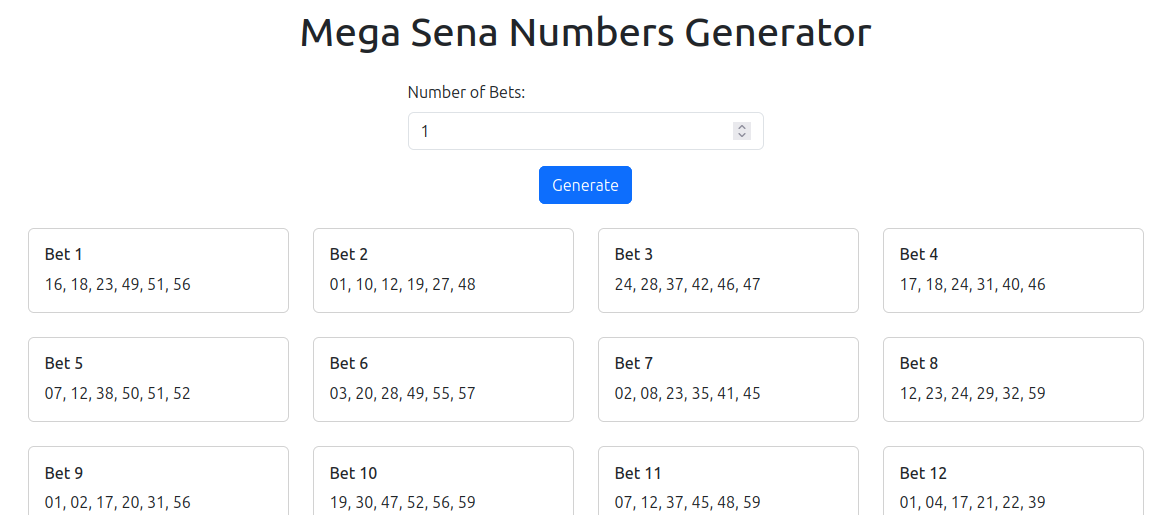
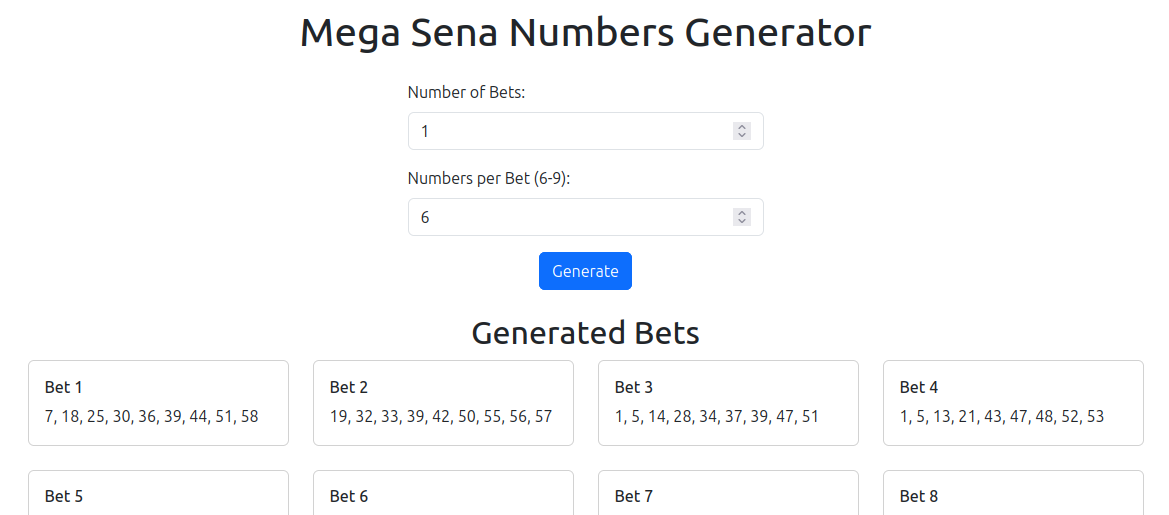
Add new functionality to generate new bets

diff --git a/src/main/resources/templates/generate.html b/src/main/resources/templates/generate.html
@@ -9,13 +9,18 @@
 <div class="container mt-5">
     <h1 class="text-center mb-4">Mega Sena Numbers Generator</h1>
 
-    <!-- Formulário para solicitar o número de apostas -->
-    <form action="/generate" method="post" class="mb-4">
+    <!-- Formulário para gerar apostas -->
+    <form action="/generate" method="post">
         <div class="row mb-3">
             <div class="col-md-4 offset-md-4">
                 <label for="numberOfBets" class="form-label">Number of Bets:</label>
-                <input type="number" id="numberOfBets" name="numberOfBets" min="1" max="1000" value="1" required
-                       class="form-control">
+                <input type="number" id="numberOfBets" name="numberOfBets" min="1" max="1000" value="1" class="form-control" required>
+            </div>
+        </div>
+        <div class="row mb-3">
+            <div class="col-md-4 offset-md-4">
+                <label for="numbersPerBet" class="form-label">Numbers per Bet (6-9):</label>
+                <input type="number" id="numbersPerBet" name="numbersPerBet" min="6" max="9" value="6" class="form-control" required>
             </div>
         </div>
         <div class="text-center">
@@ -23,24 +28,27 @@
         </div>
     </form>
 
-    <!-- Exibição de mensagens de erro -->
-    <div th:if="${error}" class="alert alert-danger text-center">
+    <!-- Exibição de erros -->
+    <div th:if="${error}" class="alert alert-danger text-center mt-4">
         <p th:text="${error}"></p>
     </div>
 
-    <!-- Results in four columns -->
-    <div class="row row-cols-1 row-cols-md-4 g-4">
-        <div class="col" th:each="bet : ${bets}">
-            <div class="card">
-                <div class="card-body">
-                    <h6 class="card-title" th:text="${bet.key}"></h6>
-                    <p class="card-text" th:text="${#strings.arrayJoin(bet.value, ', ')}"></p>
+    <!-- Exibição dos resultados das apostas -->
+    <div th:if="${bets}" class="mt-4">
+        <h2 class="text-center">Generated Bets</h2>
+        <div class="row row-cols-1 row-cols-md-4 g-4">
+            <div class="col" th:each="bet : ${bets}">
+                <div class="card">
+                    <div class="card-body">
+                        <h6 class="card-title" th:text="${bet.key}"></h6>
+                        <p class="card-text" th:text="${#strings.arrayJoin(bet.value, ', ')}"></p>
+                    </div>
                 </div>
             </div>
         </div>
+    </div>
 </div>
 
-<!-- Bootstrap JS (opcional) -->
 <script src="https://cdn.jsdelivr.net/npm/bootstrap@5.3.0/dist/js/bootstrap.bundle.min.js"></script>
 </body>
 </html>

diff --git a/src/main/java/br/com/rogrs/bets/service/MegaSenaService.java b/src/main/java/br/com/rogrs/bets/service/MegaSenaService.java
@@ -5,34 +5,28 @@ import org.springframework.stereotype.Service;
 
 import java.util.*;
 import java.util.stream.Collectors;
+import java.util.stream.IntStream;
 
 @Service
 public class MegaSenaService {
 
 
-    public Map<String, List<String>> generateMultipleBets(int numberOfBets) {
-        Map<String, List<String>> bets = new LinkedHashMap<>();
+    public Map<String, List<Integer>> generateMultipleBets(int numberOfBets, int numbersPerBet) {
+        if (numbersPerBet < 6 || numbersPerBet > 9) {
+            throw new IllegalArgumentException("The number of numbers per bet must be between 6 and 9.");
+        }
+
+        Map<String, List<Integer>> bets = new LinkedHashMap<>();
+        Random random = new Random();
 
         for (int i = 1; i <= numberOfBets; i++) {
-            bets.put("Bet " + i, generateSingleBet());
+            List<Integer> bet = IntStream.rangeClosed(1, 60)
+                    .boxed()
+                    .collect(Collectors.toList());
+            Collections.shuffle(bet, random);
+            bets.put("Bet " + i, bet.subList(0, numbersPerBet).stream().sorted().collect(Collectors.toList()));
         }
 
         return bets;
-    }
-
-    private List<String> generateSingleBet() {
-        Random random = new Random();
-        Set<Integer> numbers = new HashSet<>();
-
-        while (numbers.size() < 6) {
-            int randomNumber = random.nextInt(60) + 1;
-            numbers.add(randomNumber);
-        }
-
-        // Formata os números como strings com dois dígitos
-        return numbers.stream()
-                .sorted()
-                .map(n -> String.format("%02d", n))
-                .collect(Collectors.toList());
     }
 }

diff --git a/src/main/java/br/com/rogrs/bets/controller/web/MegaSenaThymeleafController.java b/src/main/java/br/com/rogrs/bets/controller/web/MegaSenaThymeleafController.java
@@ -19,14 +19,18 @@ public class MegaSenaThymeleafController {
     }
 
     @GetMapping("/")
-    public String showGeneratePage() {
+    public String showGeneratePage(Model model) {
+        model.addAttribute("numberOfBets", 1);  // Valor padrão para o número de apostas
+        model.addAttribute("numbersPerBet", 6); // Valor padrão para o número de números por aposta
         return "generate";
     }
 
     @PostMapping("/generate")
-    public String generateNumbers(@RequestParam(defaultValue = "1") Integer numberOfBets, Model model) {
+    public String generateNumbers(@RequestParam(defaultValue = "1") Integer numberOfBets,
+                                  @RequestParam(defaultValue = "6") Integer numbersPerBet,
+                                  Model model) {
         try {
-            model.addAttribute("bets", megaSenaService.generateMultipleBets(numberOfBets));
+            model.addAttribute("bets", megaSenaService.generateMultipleBets(numberOfBets, numbersPerBet));
         } catch (Exception e) {
             model.addAttribute("error", "Error generating numbers: " + e.getMessage());
         }
